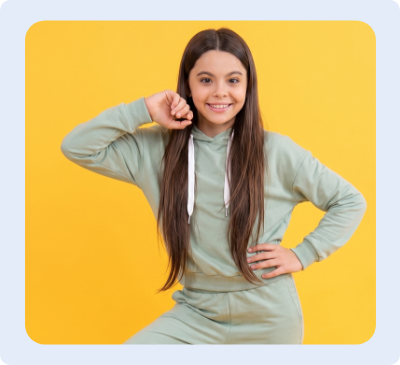
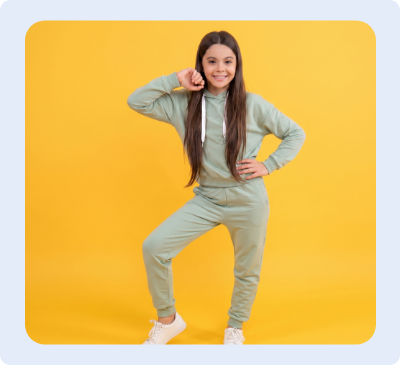
Avance 5.0

diff --git a/src/views/Tema5.vue b/src/views/Tema5.vue
@@ -133,7 +133,7 @@
         p.mb-0 También pueden añadirse otras especificaciones, como detalles de estampación, cambios de color o material, acabados especiales y ubicación de elementos como bolsillos.
           br
           br
-          | En cuanto al trazo, se utilizan formas geométricas básicas como horizontal, vertical, perpendicular, rectángulo, cuadrado, paralelo, ángulo recto, diagonal, vértice, radio, curva cóncava, convexa, entre otras. Toda construcción parte de un rectángulo base, considerando el contorno y el largo del patrón principal.
+          | En cuanto al trazo, se utilizan #[b formas geométricas básicas] como horizontal, vertical, perpendicular, rectángulo, cuadrado, paralelo, ángulo recto, diagonal, vértice, radio, curva cóncava, convexa, entre otras. Toda construcción parte de un rectángulo base, considerando el contorno y el largo del patrón principal.
 
     p Las escalas permiten representar piezas a tamaño real o reducido. Las más comunes son:
     .row.justify-content-center.align-items-center.mb-2(data-aos='fade-right')
@@ -255,7 +255,7 @@
 
       .row.justify-content-center(titulo="Manejo del papel")
         .col-lg-6.mb-2.mb-md-0
-          p El trazado de moldes infantiles se ejecuta sobre papeles especializados, siendo el papel trazo o manifold el material de uso técnico estándar. Este tipo de papel presenta dos caras diferenciadas: una lisa y brillante, y otra opaca y corrugada. Se recomienda trabajar sobre la superficie opaca, ya que ofrece mejor adherencia al grafito y reduce los reflejos de luz que generan fatiga ocular durante el trazado. El uso de papel blanco contribuye adicionalmente a la legibilidad y claridad de las líneas del molde.
+          p El trazado de moldes infantiles se ejecuta sobre papeles especializados, siendo el papel trazo o #[em manifold] el material de uso técnico estándar. Este tipo de papel presenta dos caras diferenciadas: una lisa y brillante, y otra opaca y corrugada. Se recomienda trabajar sobre la superficie opaca, ya que ofrece mejor adherencia al grafito y reduce los reflejos de luz que generan fatiga ocular durante el trazado. El uso de papel blanco contribuye adicionalmente a la legibilidad y claridad de las líneas del molde.
         .col-lg-5.col-11.col-md-10
           figure
             img(src='@/assets/curso/Tema5/6.png', alt='Texto que describa la imagen')
@@ -295,10 +295,10 @@
       table
         thead
           tr
-            th.w-10 Paso
-            th Fórmula o medida
-            th Trazado
-            th Función en el patrón básico infantil
+            th.w-10.text-izq Paso
+            th.text-izq Fórmula o medida
+            th.text-izq Trazado
+            th.text-izq Función en el patrón básico infantil
         tbody
           tr
             td.text-center 1
@@ -363,15 +363,21 @@
       table
         thead
           tr
-            th.w-10 Paso
-            th Fórmula o medida
-            th Trazado
-            th Función en el patrón básico infantil
+            th.w-10.text-izq Paso
+            th.text-izq Fórmula o medida
+            th.text-izq Trazado
+            th.text-izq Función en el patrón básico infantil
         tbody
           tr
             td.text-center 1
-            td Ancho = B/2 + 3 cm.
-              Alto = B/4 + 0.5 cm.
+            td 
+              ul.lista-ul--color
+                li
+                  i.fas
+                  | Ancho = B/2 + 3 cm.
+                li
+                  i.fas
+                  | Alto = B/4 + 0.5 cm.
             td Rectángulo inicial del patrón.
             td Define la base estructural a partir del contorno de busto y largo de espalda.
           tr
@@ -433,19 +439,26 @@
       table
         thead
           tr
-            th.w-10 Paso
-            th Fórmula o medida
-            th Trazado
-            th Función en el patrón básico infantil
+            th.w-10.text-izq Paso
+            th.text-izq Fórmula o medida
+            th.text-izq Trazado
+            th.text-izq Función en el patrón básico infantil
         tbody
           tr
             td.text-center 1
-            td Ancho = circunferencia de brazo/2 + 2.5.
+            td
+              ul.lista-ul.mb-0
+                li
+                  i.fas
+                  | Ancho = circunferencia de brazo/2 + 2.5. 
+                li
+                  i.fas
+                  | Alto = largo de manga.
             td Trazar el rectángulo base con ancho y alto según medidas.
             td Define la estructura inicial de la manga a partir de las medidas infantiles.
           tr
             td.text-center 2
-            td En este paso no se aplica formula.
+            td En este paso no se aplica fórmula.
             td Dividir el rectángulo en dos mitades verticales.
             td Establece la línea central de referencia para la copa de la manga.
           tr

diff --git a/src/views/Tema2.vue b/src/views/Tema2.vue
@@ -18,7 +18,7 @@
     
     separador
     #t_2_1.titulo-segundo.mb-5(data-aos="zoom-in-left")
-      h2 2.1  Sistemas de medidas – clasificacións
+      h2 2.1  Sistemas de medidas – clasificación
 
     .cajon.color-secundario.p-4.mb-4(data-aos="zoom-in-left")
       p El sistema de medidas en el área de patronaje hace referencia al conjunto de técnicas y procesos que se utilizan para obtener y dar aplicación con los datos obtenidos de las medidas corporales, las cuales han de ser precisas en la elaboración de patrones de prendas de vestir. 
@@ -73,7 +73,7 @@
       .col-lg-12
         .bg2.p-4
           h5 Las medidas corporales
-          p las medidas corporales se toman considerando los puntos de anclaje del cuerpo humano, a partir de parámetros antropométricos y anatómicos que garantizan la reproducibilidad y consistencia de los datos. En este proceso se tienen en cuenta los volúmenes y protuberancias corporales como referencias estructurales para la ubicación correcta de la cinta métrica. Según su dirección y naturaleza, las medidas corporales se clasifican en tres grupos:
+          p Las medidas corporales se toman considerando los puntos de anclaje del cuerpo humano, a partir de parámetros antropométricos y anatómicos que garantizan la reproducibilidad y consistencia de los datos. En este proceso se tienen en cuenta los volúmenes y protuberancias corporales como referencias estructurales para la ubicación correcta de la cinta métrica. Según su dirección y naturaleza, las medidas corporales se clasifican en tres grupos:
     .row.justify-content-center.align-items-center.mb-4
       .col-lg-3.col-8.mb-4.col-md-6
         img(src="@/assets/curso/Tema2/img03.png")
@@ -92,7 +92,7 @@
     p En la siguiente figura se presentan largos, anchos y contornos de la figura humana infantil. 
 
     .row.justify-content-center.align-items-center.mb-0(data-aos="zoom-in-left")
-      .col-lg-10
+      .col-lg-12
         .titulo-sexto.color-acento-contenido(data-aos='fade-right')
           h5 Figura 4.
           span Toma de medidas infantil
@@ -112,7 +112,7 @@
 
     p La proporción versus el canon hace referencia a cuantas cabezas caben en la altura del cuerpo, para ello es importante precisar: 
 
-    .row.mb-0(data-aos="zoom-in-left")
+    .row.mb-4(data-aos="zoom-in-left")
         .col-md-6.col-lg.mb-5.mb-lg-0
           .tarjeta-avatar
             img(src='@/assets/curso/Tema2/3.svg' alt='')

diff --git a/src/views/Tema4.vue b/src/views/Tema4.vue
@@ -84,14 +84,28 @@
         .row.justify-content-center(titulo=" E").p-4
           .col-lg-5.mb-3.text-white.mb-3
             h4 Factores que afectan el aprovechamiento
-            P #[b Forma y número de piezas:] prendas con muchas piezas pequeñas tienden a generar más sobrantes.
-            p #[b Ancho de la tela:] a mayor ancho, más oportunidades de optimización.
-            p #[b Diseño o estampado:] telas con dibujos direccionados limitan la rotación de piezas.
-            p #[b Técnicas de corte:] el uso de software de corte o corte manual puede influir en el rendimiento.  
+            ul.lista-ul
+              li.d-flex
+                i.fas •
+                P.mb-0 #[b Forma y número de piezas:] prendas con muchas piezas pequeñas tienden a generar más sobrantes.
+              li.d-flex
+                i.fas •
+                p.mb-0 #[b Ancho de la tela:] a mayor ancho, más oportunidades de optimización.
+              li.d-flex
+                i.fas •
+                p.mb-0 #[b Diseño o estampado:] telas con dibujos direccionados limitan la rotación de piezas.
+              li.d-flex
+                i.fas •
+                p.mb-0 #[b Técnicas de corte:] el uso de #[em software] de corte o corte manual puede influir en el rendimiento.  
           .col-lg-5.mb-3.text-white.mb-3
             h4 Consideraciones adicionales
-            P Siempre se recomienda dejar un margen de seguridad del 5 - 10 % al comprar tela.
-            p El uso de retales sobrantes en otras prendas o complementos puede mejorar el rendimiento general.
+            ul.lista-ul
+              li.d-flex
+                i.fas •
+                P Siempre se recomienda dejar un margen de seguridad del 5 - 10 % al comprar tela.
+              li.d-flex
+                i.fas •
+                p  El uso de retales sobrantes en otras prendas o complementos puede mejorar el rendimiento general.
 
 
 

diff --git a/src/views/Tema3.vue b/src/views/Tema3.vue
@@ -36,11 +36,12 @@
       span Clasificación de universos del vestuario por ocasión de uso
     .tabla-a.color-acento-contenido.mb-5
       table
+        caption Fuente: (Sena, 2025)
         thead
           tr
-            th Universo
-            th Uso
-            th Ejemplos
+            th.text-izq Universo
+            th.text-izq Uso
+            th.text-izq Ejemplos
         tbody
           tr
             td Formal
@@ -49,7 +50,7 @@
           tr
             td Informal casual
             td Vida cotidiana, actividades diarias.
-            td Pantalones en denim, camisetas, camisas, zapatillas, vestidos ligeros.
+            td Pantalones en #[em denim], camisetas, camisas, zapatillas, vestidos ligeros.
           tr
             td Deportivo o funcional
             td Actividad física, trabajo especializado.
@@ -64,7 +65,7 @@
             td Vestidos largos, trajes formales, indumentaria cultural.
           tr
             td Fantasía
-            td Teatro, cine, *cosplay*, carnaval.
+            td Teatro, cine, #[em cosplay], carnaval.
             td Disfraces, vestuario teatral, trajes de época.
           tr
             td #[em Swimwear]
@@ -85,14 +86,15 @@
     .row.justify-content-center.align-items-center.mb-3
       .col-lg-6
         .titulo-sexto.color-acento-contenido(data-aos='fade-right')
-          h5 Tabla 1.
+          h5 Tabla 2.
           span Clasificación de universos del vestuario por ocasión de uso
         .tabla-a.color-acento-contenido.mb-4
           table
+            caption Fuente: (Sena, 2025)
             thead
               tr
-                th.w-25 Ocasión de uso
-                th.w-50 Universo de vestuario
+                th.w-25.text-izq Ocasión de uso
+                th.w-75.text-izq Universo de vestuario
             tbody
               tr
                 td Protocolario

diff --git a/src/views/Actividad.vue b/src/views/Actividad.vue
@@ -301,7 +301,7 @@ export default {
             {
               id: 'a',
               texto:
-                'Sleepwear, destinado a prendas de descanso y uso nocturno.',
+                '<i>Sleepwear</i>, destinado a prendas de descanso y uso nocturno.',
               esCorrecta: false,
             },
             {
@@ -313,7 +313,7 @@ export default {
             {
               id: 'c',
               texto:
-                'Swimwear, orientado exclusivamente al uso en piscina y playa.',
+                '<i>Swimwear</i>, orientado exclusivamente al uso en piscina y playa.',
               esCorrecta: false,
             },
             {
@@ -775,7 +775,7 @@ export default {
         },
       ],
       mensaje_final_aprobado:
-        'Has superado la actividad y demuestras sólidos conocimientos sobre la estructura corporal infantil, los sistemas de medidas y los fundamentos del patronaje básico.',
+        'Has superado la actividad y demuestra sólidos conocimientos sobre la estructura corporal infantil, los sistemas de medidas y los fundamentos del patronaje básico.',
       mensaje_final_reprobado:
         'No ha superado la actividad. Le recomendamos volver a revisar el componente formativo e intentar nuevamente la actividad didáctica.',
     },

diff --git a/src/styles/_custom.sass b/src/styles/_custom.sass
@@ -52,7 +52,8 @@
   color: $color-primario
 figcaption
   font-weight: normal
-
+.text-izq
+  text-align: left !important
 .fondo01
   background-image: url('../assets/curso/Tema1/fondosly.png')
   background-position: center
@@ -220,3 +221,26 @@ figcaption
 .linea-tiempo-c.color-acento-botones .linea-tiempo-c__header__item--before .linea-tiempo-c__header__item__dot 
   border-color: #FFA200
   background-color: #ffff
+
+.w-25
+  width: 25%
+.w-75
+  width: 75%
+
+.tabla-a table 
+  width: 100%
+  table-layout: fixed
+
+.tabla-a 
+  overflow-x: auto
+
+@media (min-width: 992px) 
+  .tabla-a 
+    overflow-x: hidden
+  .tabla-a table 
+    width: 100%
+    table-layout: fixed
+  .tabla-a th,
+  .tabla-a td 
+    word-break: break-word
+    overflow-wrap: break-word

diff --git a/src/config/global.js b/src/config/global.js
@@ -276,7 +276,7 @@ export default {
         {
           nombre: 'Claudia Johanna Gómez Pérez',
           cargo: 'Responsable del ecosistema',
-          centro: 'Dirección General',
+          centro: 'Centro Agroturístico - Regional Santander',
         },
         {
           nombre: 'Edison Eduardo Mantilla Cuadros',
@@ -290,7 +290,7 @@ export default {
       autores: [
         {
           nombre: 'Paola Angélica Castro Salazar',
-          cargo: 'Experto temático',
+          cargo: 'Experta temática',
           centro: 'Centro Agroturístico - Regional Santander',
         },
         {
